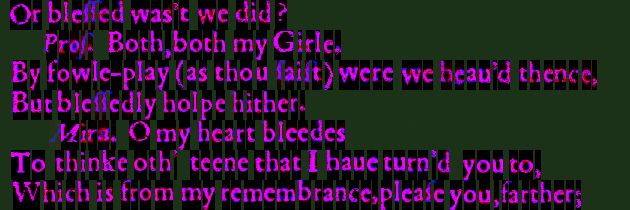
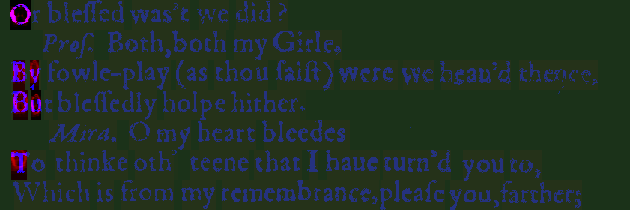
Forced Alignment Code

diff --git a/src/main/java/edu/berkeley/cs/nlp/ocular/model/transition/FixedAlignTransition.java b/src/main/java/edu/berkeley/cs/nlp/ocular/model/transition/FixedAlignTransition.java
@@ -7,42 +7,37 @@ import java.util.Arrays;
 import java.util.Collection;
 import java.util.List;
 
-import com.sun.org.apache.bcel.internal.generic.LMUL;
-
 import tberg.murphy.arrays.a;
-import edu.berkeley.cs.nlp.ocular.data.textreader.CharIndexer;
 import edu.berkeley.cs.nlp.ocular.data.textreader.Charset;
 import edu.berkeley.cs.nlp.ocular.gsm.GlyphChar;
 import edu.berkeley.cs.nlp.ocular.gsm.GlyphChar.GlyphType;
 import edu.berkeley.cs.nlp.ocular.lm.FixedLanguageModel;
+import edu.berkeley.cs.nlp.ocular.lm.SingleLanguageModel;
 import edu.berkeley.cs.nlp.ocular.model.TransitionStateType;
-import edu.berkeley.cs.nlp.ocular.model.transition.CharacterNgramTransitionModel.CharacterNgramTransitionState;
-import edu.berkeley.cs.nlp.ocular.model.transition.SparseTransitionModel.TransitionState;
 import edu.berkeley.cs.nlp.ocular.util.Tuple2;
-import sun.security.util.Length;
 
 /**
  * @author Taylor Berg-Kirkpatrick (tberg@eecs.berkeley.edu)
  */
-public class ForcedAlignmentTransitionModel implements SparseTransitionModel {
+public class FixedAlignTransition implements SparseTransitionModel {
 	
 	public class CharacterNgramTransitionState implements SparseTransitionModel.TransitionState {
-		private final int position;
-		private final int lmCharIndex;
+		private final int pos;
 		private final TransitionStateType type;
+
+		private final int lmCharIndex;
 		
-		public CharacterNgramTransitionState(int position, int character, TransitionStateType type) {
-			this.position = position;
+		public CharacterNgramTransitionState(int pos, int character, TransitionStateType type) {
+			this.pos = pos;
 			this.type = type;
 			
-			if (character == -1 || position == -1 || type == TransitionStateType.LMRGN || type == TransitionStateType.LMRGN_HPHN || type == TransitionStateType.RMRGN || type == TransitionStateType.RMRGN_HPHN) {
+			if (pos == -1 || character == -1 || type == TransitionStateType.LMRGN || type == TransitionStateType.LMRGN_HPHN || type == TransitionStateType.RMRGN || type == TransitionStateType.RMRGN_HPHN) {
 				this.lmCharIndex = spaceCharIndex;
 			} else if (type == TransitionStateType.RMRGN_HPHN_INIT) {
 				this.lmCharIndex = hyphenCharIndex;
 			} else {
 				this.lmCharIndex = character;
-			}	
-			
+			}
 		}
 		
 		public boolean equals(Object other) {
@@ -50,7 +45,7 @@ public class ForcedAlignmentTransitionModel implements SparseTransitionModel {
 		    	CharacterNgramTransitionState that = (CharacterNgramTransitionState) other;
 		    	if (this.type != that.type) {
 		    		return false;
-		    	} else if (this.position != that.position) {
+		    	} else if (this.pos != that.pos) {
 		    		return false;
 		    	} else {
 		    		return true;
@@ -61,23 +56,29 @@ public class ForcedAlignmentTransitionModel implements SparseTransitionModel {
 		}
 		
 		public int hashCode() {
-			return 1013 * Integer.hashCode(position) + 1009 * this.type.ordinal();
+			return 1013 * Integer.hashCode(pos) + 1009 * this.type.ordinal();
 		}
 		
 		public Collection<Tuple2<TransitionState,Double>> nextLineStartStates() {
 			List<Tuple2<TransitionState,Double>> result = new ArrayList<Tuple2<TransitionState,Double>>();
 			TransitionStateType type = getType();
-			int pos = getContext();
-			int nextChar = lm.getCharAtPos(pos+1);
+			int pos = getPosition();
 			
-			if (type == TransitionStateType.TMPL) {				
-				if (nextChar == spaceCharIndex) {
+			if (type == TransitionStateType.TMPL) {
+				double scoreWithSpace =  Math.log(lm.getCharNgramProb(pos+1, spaceCharIndex));
+				if (scoreWithSpace != Double.NEGATIVE_INFINITY) {
 					{
-						double score = Math.log(LINE_MRGN_PROB);
+						double score = Math.log(LINE_MRGN_PROB) + scoreWithSpace;
 						if (score != Double.NEGATIVE_INFINITY) {
 							result.add(Tuple2((TransitionState) new CharacterNgramTransitionState(pos+1, -1, TransitionStateType.LMRGN), score));
 						}
-					}				
+					}
+					for (int c=0; c<lm.getCharacterIndexer().size(); ++c) {
+						double score = Math.log((1.0 - LINE_MRGN_PROB)) + scoreWithSpace + Math.log(lm.getCharNgramProb(pos+2, c));
+						if (score != Double.NEGATIVE_INFINITY) {
+							result.add(Tuple2((TransitionState) new CharacterNgramTransitionState(pos+2, c, TransitionStateType.TMPL), score));
+						}
+					}
 				}
 			} else if (type == TransitionStateType.RMRGN) {
 				{
@@ -87,11 +88,11 @@ public class ForcedAlignmentTransitionModel implements SparseTransitionModel {
 					}
 				}
 				for (int c=0; c<lm.getCharacterIndexer().size(); ++c) {
-					double score = Math.log(1.0-LINE_MRGN_PROB) + Math.log(lm.getCharNgramProb(nextChar, c));
+					double score = Math.log((1.0 - LINE_MRGN_PROB)) + Math.log(lm.getCharNgramProb(pos+1, c));
 					if (score != Double.NEGATIVE_INFINITY) {
 						result.add(Tuple2((TransitionState) new CharacterNgramTransitionState(pos+1, c, TransitionStateType.TMPL), score));
 					}
-				}			
+				}
 			} else if (type == TransitionStateType.RMRGN_HPHN || type == TransitionStateType.RMRGN_HPHN_INIT) {
 				{
 					double score = Math.log(LINE_MRGN_PROB);
@@ -100,11 +101,11 @@ public class ForcedAlignmentTransitionModel implements SparseTransitionModel {
 					}
 				}
 				for (int c=0; c<lm.getCharacterIndexer().size(); ++c) {
-					double score = Math.log(1.0-LINE_MRGN_PROB) + Math.log(lm.getCharNgramProb(nextChar, c));
+					double score = Math.log((1.0 - LINE_MRGN_PROB)) + Math.log(lm.getCharNgramProb(pos+1, c));
 					if (c != spaceCharIndex && !isPunc[c]) {
 						result.add(Tuple2((TransitionState) new CharacterNgramTransitionState(pos+1, c, TransitionStateType.TMPL), score));
 					}
-				}				
+				}
 			} else if (type == TransitionStateType.LMRGN || type == TransitionStateType.LMRGN_HPHN) {
 				{
 					double score = Math.log(LINE_MRGN_PROB);
@@ -113,11 +114,11 @@ public class ForcedAlignmentTransitionModel implements SparseTransitionModel {
 					}
 				}
 				for (int c=0; c<lm.getCharacterIndexer().size(); ++c) {
-					double score = Math.log(1.0-LINE_MRGN_PROB) + Math.log(lm.getCharNgramProb(nextChar, c));
-					if (c != spaceCharIndex && !isPunc[c]) {
+					double score = Math.log((1.0 - LINE_MRGN_PROB)) + Math.log(lm.getCharNgramProb(pos+1, c));
+					if (score != Double.NEGATIVE_INFINITY) {
 						result.add(Tuple2((TransitionState) new CharacterNgramTransitionState(pos+1, c, TransitionStateType.TMPL), score));
 					}
-				}	
+				}
 			}
 			return result;
 		}
@@ -127,10 +128,8 @@ public class ForcedAlignmentTransitionModel implements SparseTransitionModel {
 		}
 		
 		public Collection<Tuple2<TransitionState,Double>> forwardTransitions() {
-			int pos = getContext();
+			int pos = getPosition();
 			TransitionStateType type = getType();
-			int nextChar = lm.getCharAtPos(pos+1);
-			
 			List<Tuple2<TransitionState,Double>> result = new ArrayList<Tuple2<TransitionState,Double>>();
 			if (type == TransitionStateType.LMRGN) {
 				{
@@ -140,11 +139,11 @@ public class ForcedAlignmentTransitionModel implements SparseTransitionModel {
 					}
 				}
 				for (int c=0; c<lm.getCharacterIndexer().size(); ++c) {
-					double score = Math.log(1.0-LINE_MRGN_PROB) + Math.log(lm.getCharNgramProb(nextChar, c));
-					if (c != spaceCharIndex && !isPunc[c]) {
+					double score = Math.log((1.0 - LINE_MRGN_PROB)) + Math.log(lm.getCharNgramProb(pos+1, c));
+					if (score != Double.NEGATIVE_INFINITY) {
 						result.add(Tuple2((TransitionState) new CharacterNgramTransitionState(pos+1, c, TransitionStateType.TMPL), score));
 					}
-				}	
+				}
 			} else if (type == TransitionStateType.LMRGN_HPHN) {
 				{
 					double score = Math.log(LINE_MRGN_PROB);
@@ -153,7 +152,7 @@ public class ForcedAlignmentTransitionModel implements SparseTransitionModel {
 					}
 				}
 				for (int c=0; c<lm.getCharacterIndexer().size(); ++c) {
-					double score = Math.log(1.0-LINE_MRGN_PROB) + Math.log(lm.getCharNgramProb(nextChar, c));
+					double score = Math.log((1.0 - LINE_MRGN_PROB)) + Math.log(lm.getCharNgramProb(pos+1, c));
 					if (c != spaceCharIndex && !isPunc[c]) {
 						result.add(Tuple2((TransitionState) new CharacterNgramTransitionState(pos+1, c, TransitionStateType.TMPL), score));
 					}
@@ -173,29 +172,24 @@ public class ForcedAlignmentTransitionModel implements SparseTransitionModel {
 				if (score != Double.NEGATIVE_INFINITY) {
 					result.add(Tuple2((TransitionState) new CharacterNgramTransitionState(pos, -1, TransitionStateType.RMRGN_HPHN), score));
 				}
-			} else if (type == TransitionStateType.TMPL) {	
+			} else if (type == TransitionStateType.TMPL) {
 				{
-					double score = Math.log(LINE_MRGN_PROB) + Math.log(1.0 - LINE_END_HYPHEN_PROB);
+					double score = Math.log(LINE_MRGN_PROB) + Math.log(1.0 - LINE_END_HYPHEN_PROB) + Math.log(lm.getCharNgramProb(pos+1, spaceCharIndex));
 					if (score != Double.NEGATIVE_INFINITY) {
-						result.add(Tuple2((TransitionState) new CharacterNgramTransitionState(pos, -1, TransitionStateType.RMRGN), score));
-					}					
+						result.add(Tuple2((TransitionState) new CharacterNgramTransitionState(pos+1, -1, TransitionStateType.RMRGN), score));
+					}
 				}
 				{
 					double score = Math.log(LINE_MRGN_PROB) + Math.log(LINE_END_HYPHEN_PROB);
-					if (score != Double.NEGATIVE_INFINITY && nextChar != spaceCharIndex) {
-						result.add(Tuple2((TransitionState) new CharacterNgramTransitionState(pos, -1, TransitionStateType.RMRGN_HPHN_INIT), score));
-					}					
-				}	
-				
-				for (int c=0; c<lm.getCharacterIndexer().size(); ++c) {
-					double score = Math.log(1.0 - LINE_MRGN_PROB) + Math.log(1.0 - SPACE_CONTINUE_PROB) + Math.log(lm.getCharNgramProb(nextChar, c));
 					if (score != Double.NEGATIVE_INFINITY) {
-						result.add(Tuple2((TransitionState) new CharacterNgramTransitionState(pos+1, c, TransitionStateType.TMPL), score));
+						result.add(Tuple2((TransitionState) new CharacterNgramTransitionState(pos, -2, TransitionStateType.RMRGN_HPHN_INIT), score));
 					}
 				}
-				
-				if (lm.getCharAtPos(pos) == spaceCharIndex) {
-					result.add(Tuple2((TransitionState) new CharacterNgramTransitionState(pos, spaceCharIndex, TransitionStateType.TMPL), Math.log(1.0 - LINE_MRGN_PROB) + Math.log(SPACE_CONTINUE_PROB)));
+				for (int nextC=0; nextC<lm.getCharacterIndexer().size(); ++nextC) {
+					double score = Math.log((1.0 - LINE_MRGN_PROB)) + Math.log(lm.getCharNgramProb(pos+1, nextC));
+					if (score != Double.NEGATIVE_INFINITY) {
+						result.add(Tuple2((TransitionState) new CharacterNgramTransitionState(pos+1, nextC, TransitionStateType.TMPL), score));
+					}
 				}
 			}
 			return result;
@@ -218,8 +212,8 @@ public class ForcedAlignmentTransitionModel implements SparseTransitionModel {
 			throw new Error("Method not implemented");
 		}
 		
-		public int getContext() {
-			return position;
+		public int getPosition() {
+			return pos;
 		}
 		
 		public TransitionStateType getType() {
@@ -231,16 +225,15 @@ public class ForcedAlignmentTransitionModel implements SparseTransitionModel {
 		}
 	}
 	
-	public static final double LINE_MRGN_PROB = 0.2;
+	public static final double LINE_MRGN_PROB = 0.5;
 	public static final double LINE_END_HYPHEN_PROB = 1e-8;
-	public static final double SPACE_CONTINUE_PROB = 1e-8;
 	
 	private FixedLanguageModel lm;
 	private int spaceCharIndex;
 	private int hyphenCharIndex;
 	private boolean[] isPunc;
 
-	public ForcedAlignmentTransitionModel(FixedLanguageModel lm) {
+	public FixedAlignTransition(FixedLanguageModel lm) {
 		this.lm = lm;
 		this.spaceCharIndex = lm.getCharacterIndexer().getIndex(Charset.SPACE);
 		this.hyphenCharIndex = lm.getCharacterIndexer().getIndex(Charset.HYPHEN);
@@ -253,17 +246,12 @@ public class ForcedAlignmentTransitionModel implements SparseTransitionModel {
 	}
 
 	public Collection<Tuple2<TransitionState,Double>> startStates() {
-		int pos = 0;
 		List<Tuple2<TransitionState,Double>> result = new ArrayList<Tuple2<TransitionState,Double>>();
-		result.add(Tuple2((TransitionState) new CharacterNgramTransitionState(-1, -1, TransitionStateType.LMRGN), Math.log(LINE_MRGN_PROB)));		
+		result.add(Tuple2((TransitionState) new CharacterNgramTransitionState(-1, -1, TransitionStateType.LMRGN), Math.log(LINE_MRGN_PROB)));
 		for (int c=0; c<lm.getCharacterIndexer().size(); ++c) {
-			double score = Math.log(1.0-LINE_MRGN_PROB) + Math.log(lm.getCharNgramProb(lm.getCharAtPos(pos), c));
-			if (score != Double.NEGATIVE_INFINITY) {
-				result.add(Tuple2((TransitionState) new CharacterNgramTransitionState(pos, c, TransitionStateType.TMPL), score));
-			}
+			result.add(Tuple2((TransitionState) new CharacterNgramTransitionState(0, c, TransitionStateType.TMPL), Math.log((1.0 - LINE_MRGN_PROB)) + Math.log(lm.getCharNgramProb(0, c))));
 		}
 		return result;
 	}
-	
 	
 }

diff --git a/src/main/java/edu/berkeley/cs/nlp/ocular/main/FixedAlignExperimentsMain.java b/src/main/java/edu/berkeley/cs/nlp/ocular/main/FixedAlignExperimentsMain.java
@@ -36,6 +36,7 @@ import edu.berkeley.cs.nlp.ocular.model.emission.CachingEmissionModelExplicitOff
 import edu.berkeley.cs.nlp.ocular.model.emission.EmissionModel;
 import edu.berkeley.cs.nlp.ocular.model.transition.CharacterNgramTransitionModel;
 import edu.berkeley.cs.nlp.ocular.model.transition.CharacterNgramTransitionModelMarkovOffset;
+import edu.berkeley.cs.nlp.ocular.model.transition.FixedAlignTransition;
 import edu.berkeley.cs.nlp.ocular.model.transition.ForcedAlignmentTransitionModel;
 import edu.berkeley.cs.nlp.ocular.model.transition.SparseTransitionModel;
 import edu.berkeley.cs.nlp.ocular.model.transition.SparseTransitionModel.TransitionState;
@@ -93,13 +94,13 @@ public class FixedAlignExperimentsMain implements Runnable {
 	public static int cudaDeviceID = 0;
 	
 	@Option(gloss = "")
-	public static int numMstepThreads = 4;
+	public static int numMstepThreads = 2;
 	
 	@Option(gloss = "")
-	public static int numEmissionCacheThreads = 4;
+	public static int numEmissionCacheThreads = 2;
 	
 	@Option(gloss = "")
-	public static int numDecodeThreads = 4;
+	public static int numDecodeThreads = 2;
 
 	
 	@Option(gloss = "")
@@ -134,7 +135,7 @@ public class FixedAlignExperimentsMain implements Runnable {
 		
 		List<Tuple2<String,Map<String,EvalSuffStats>>> allEvals = new ArrayList<Tuple2<String,Map<String,EvalSuffStats>>>();
 		
-		String lmFileName = "temp_img0.txt";
+		String lmFileName = "temp_img0_mod.txt";
 		
 //		List<Document> documents = TextAndLineImagesLoader.loadDocuments(inputPath, CharacterTemplate.LINE_HEIGHT);
 	
@@ -168,7 +169,7 @@ public class FixedAlignExperimentsMain implements Runnable {
 			
 			SparseTransitionModel forwardTransitionModel = null;
 			
-			forwardTransitionModel = new ForcedAlignmentTransitionModel(lm);			
+			forwardTransitionModel = new FixedAlignTransition(lm);			
 			
 			DenseBigramTransitionModel nullBackwardTransitionModel = new DenseBigramTransitionModel(lm.getCharacterIndexer().size());
 			

diff --git a/src/main/java/edu/berkeley/cs/nlp/ocular/lm/FixedLanguageModel.java b/src/main/java/edu/berkeley/cs/nlp/ocular/lm/FixedLanguageModel.java
@@ -10,6 +10,8 @@ import java.util.Arrays;
 import java.util.List;
 import java.util.Set;
 
+import com.sun.org.apache.bcel.internal.generic.LMUL;
+
 import edu.berkeley.cs.nlp.ocular.data.textreader.CharIndexer;
 import edu.berkeley.cs.nlp.ocular.data.textreader.Charset;
 import sun.security.util.Length;
@@ -28,7 +30,7 @@ public class FixedLanguageModel {
 		charIndexer = new CharIndexer();		
 		fixedText = new ArrayList<Integer>();
 		
-		fixedProb = 1.0 - 1e-20;
+		fixedProb = 1-1e-15;
 		
 		charIndexer.getIndex(Charset.SPACE);
 		charIndexer.getIndex(Charset.HYPHEN);
@@ -50,12 +52,13 @@ public class FixedLanguageModel {
 	      throw new RuntimeException(e);
 	    }
 		
-		subProb = (1.0-fixedProb)/(charIndexer.size()-1);
+		subProb = (1-fixedProb)/charIndexer.size();
+		System.out.println(subProb);
 	}
 	
 
-	public double getCharNgramProb(int nextChar, int c) {
-		if (c == nextChar) {
+	public double getCharNgramProb(int pos, int c) {
+		if (c == this.getCharAtPos(pos)) {
 			return fixedProb;
 		}
 		
